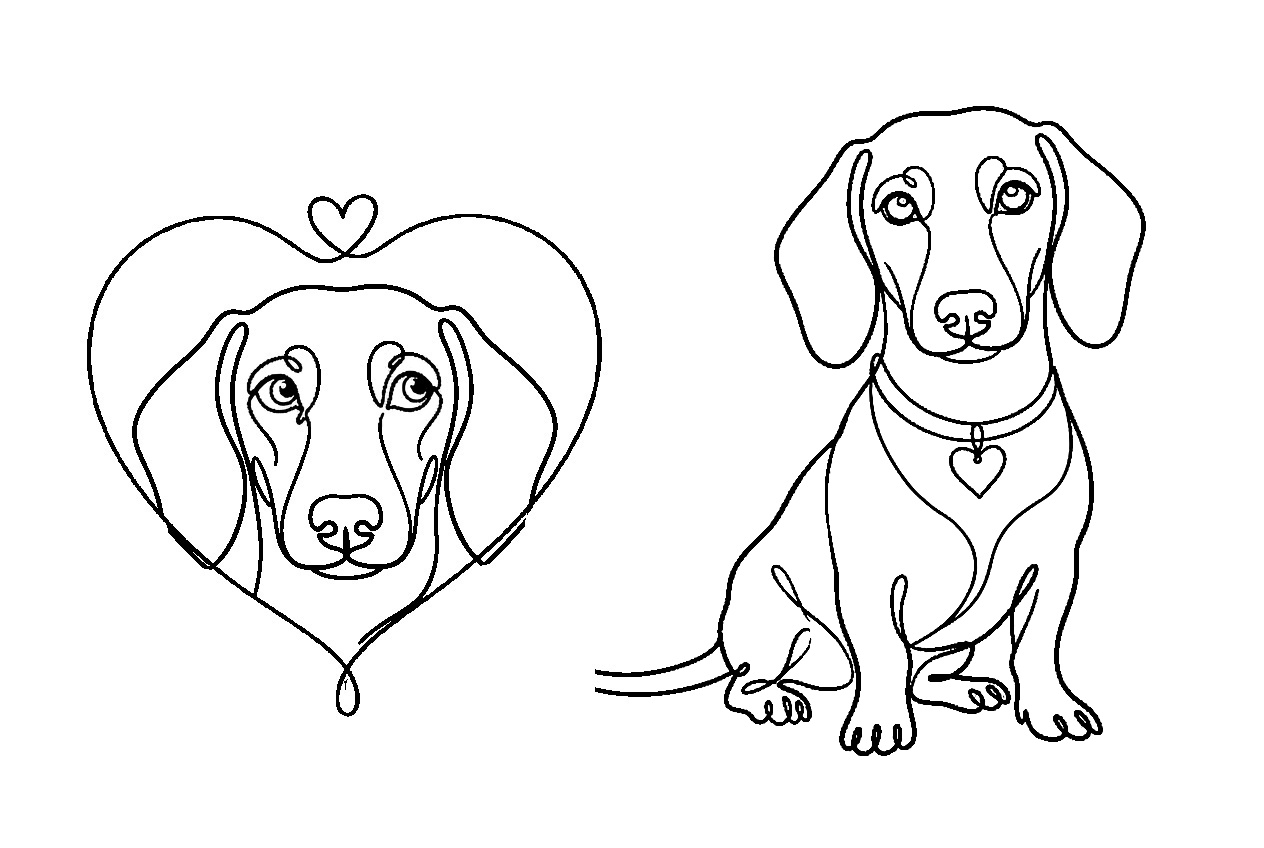
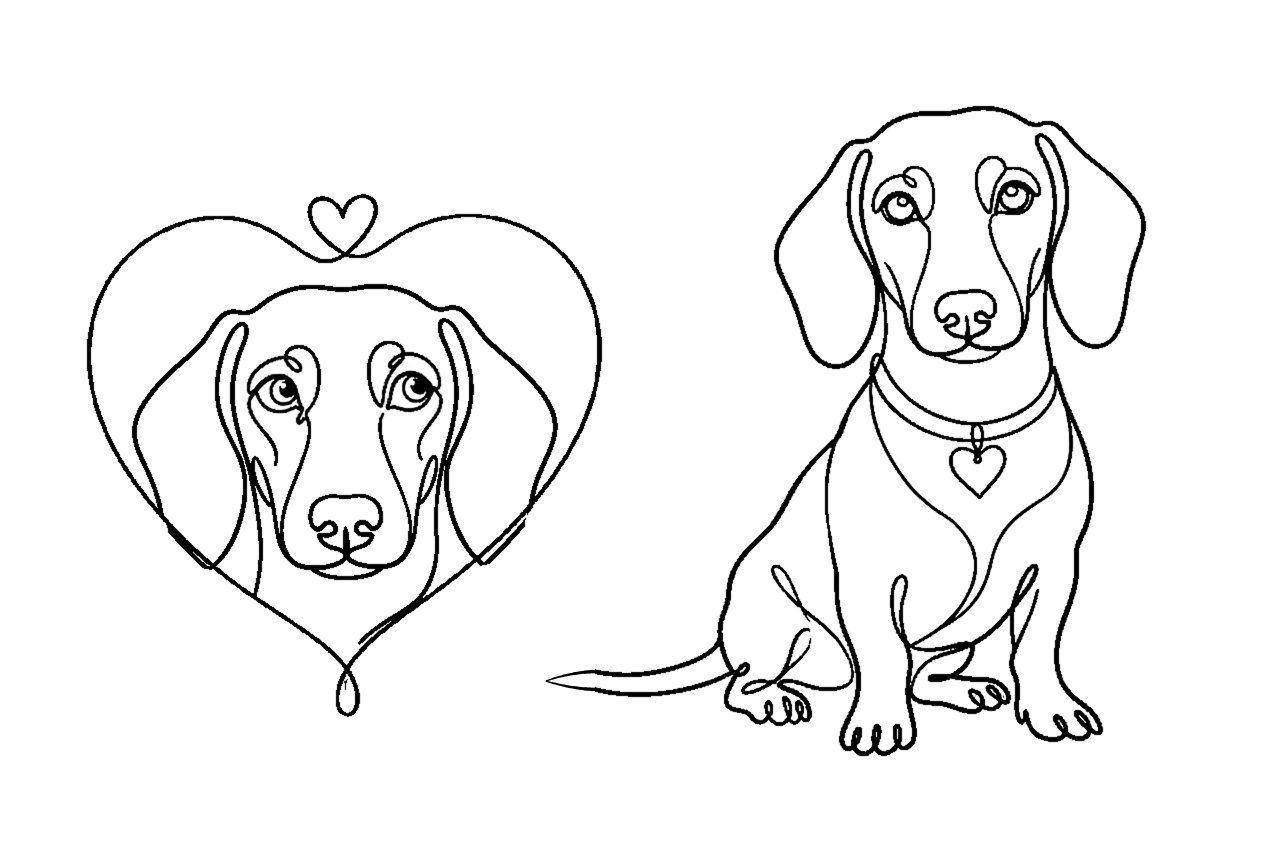
dachshund tail/ear fixes, fix5 tail script
Claude-Session: https://claude.ai/code/session_01AdsVvN9orQkgpWjS9rjafM

diff --git a/scripts/fix5_tail.py b/scripts/fix5_tail.py
@@ -1,0 +1,19 @@
+import cv2,numpy as np
+def bez(p0,p1,p2,n=60):
+    t=np.linspace(0,1,n)[:,None]; return (1-t)**2*np.array(p0)+2*(1-t)*t*np.array(p1)+t**2*np.array(p2)
+def close_tail(path,out,x0,yu,yl,tipx,tipy):
+    g=cv2.imread(path,0); K=4
+    H,W=g.shape; big=cv2.resize(g,(W*K,H*K),interpolation=cv2.INTER_CUBIC)
+    m=np.zeros_like(big)
+    for (y0,sgn) in((yu,1),(yl,-1)):
+        pts=bez((x0,y0),((x0+tipx)/2,y0+sgn*0.5),(tipx,tipy))
+        for i in range(len(pts)-1):
+            t=i/len(pts); w=max(1,int(round(K*(3.2*(1-t)+0.8*t))))
+            a=tuple(int(v*K) for v in pts[i]); b=tuple(int(v*K) for v in pts[i+1])
+            cv2.line(m,a,b,255,w,cv2.LINE_AA)
+    big=np.minimum(big,255-m)
+    o=cv2.resize(big,(W,H),interpolation=cv2.INTER_AREA)
+    cv2.imwrite(out,o,[cv2.IMWRITE_JPEG_QUALITY,95]); return o
+if __name__=="__main__":
+    for th in("line_p1",):
+        close_tail(f"out/sets/{th}/dachshund__heart.jpg","/tmp/dh_new.jpg",597,671.5,689.5,546,681)
